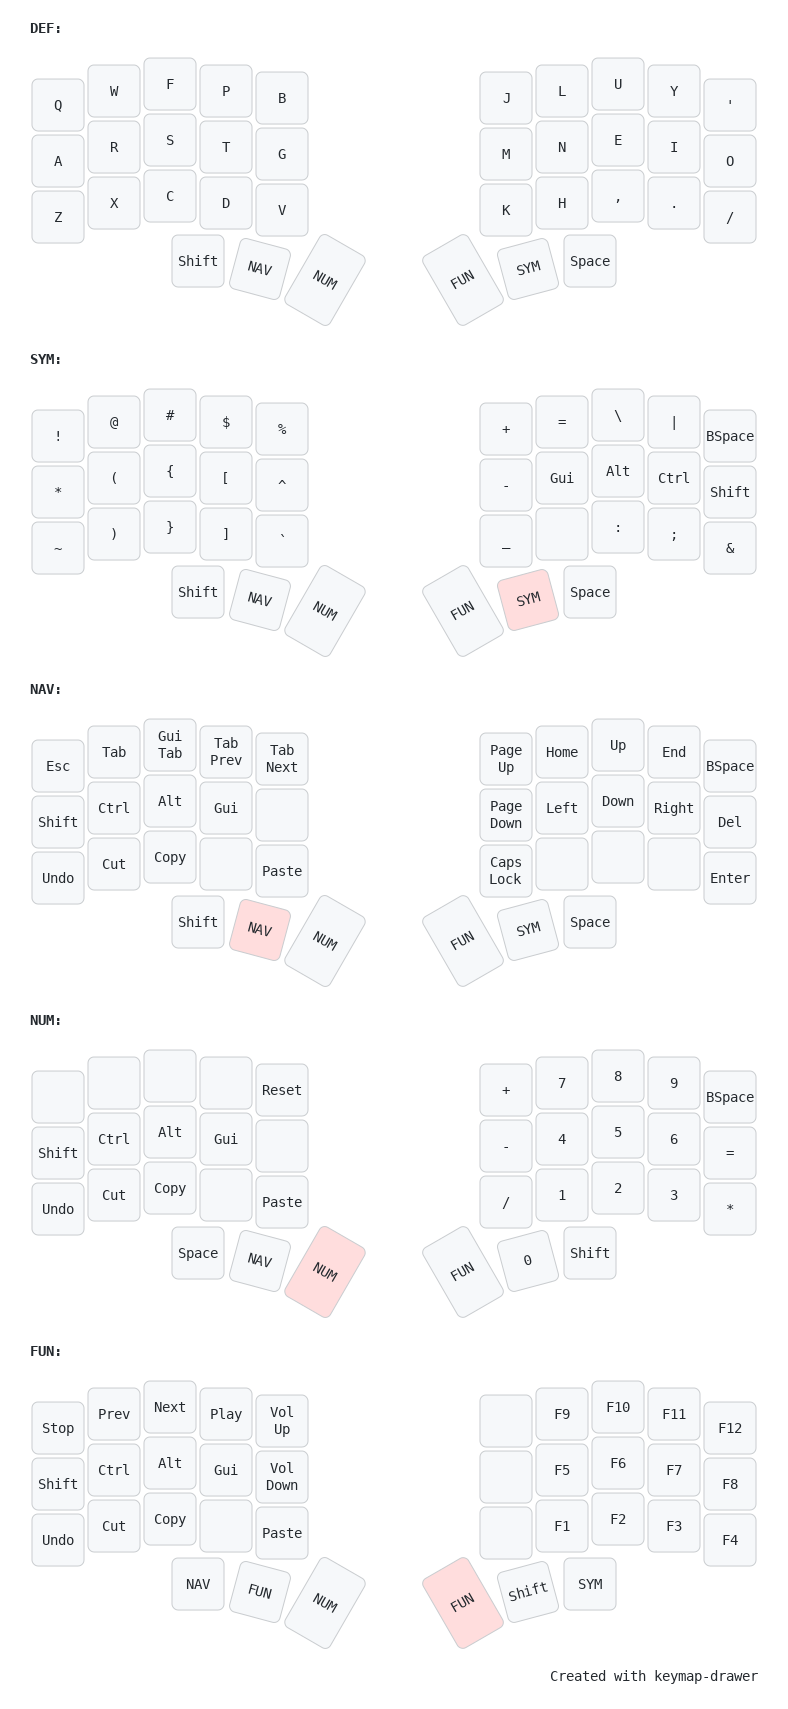
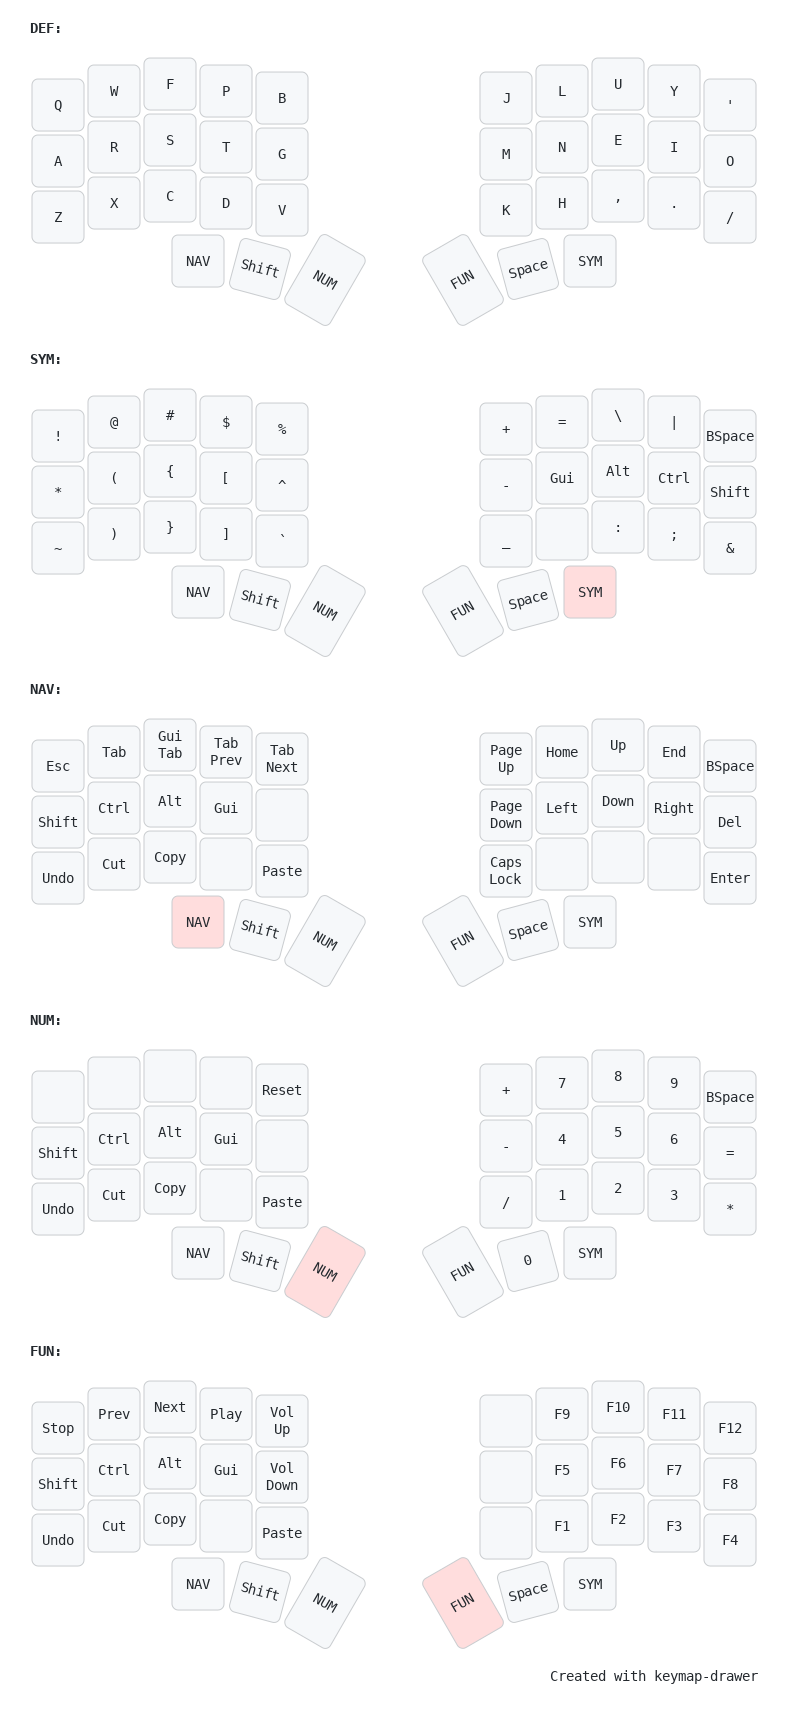
Hopefully the last one

diff --git a/keymap.c b/keymap.c
@@ -44,7 +44,7 @@ const uint16_t PROGMEM keymaps[][MATRIX_ROWS][MATRIX_COLS] = {
         XXXXXXX, KC_Q,    KC_W,    KC_F,    KC_P,    KC_B,    /**/  KC_J,    KC_L,    KC_U,    KC_Y,    KC_QUOT,  XXXXXXX,
         XXXXXXX, KC_A,    KC_R,    KC_S,    KC_T,    KC_G,    /**/  KC_M,    KC_N,    KC_E,    KC_I,    KC_O,     XXXXXXX,
         XXXXXXX, KC_Z,    KC_X,    KC_C,    KC_D,    KC_V,    /**/  KC_K,    KC_H,    KC_COMM, KC_DOT,  KC_SLSH,  XXXXXXX,
-                                   KC_LSFT, LA_NAV , LA_NUM,  /**/  LA_FUN,  LA_SYM,  KC_SPC
+                                   LA_NAV,  KC_LSFT, LA_NUM,  /**/  LA_FUN,  KC_SPC,  LA_SYM
     ),
 
     [SYM] = LAYOUT_split_3x6_3(
